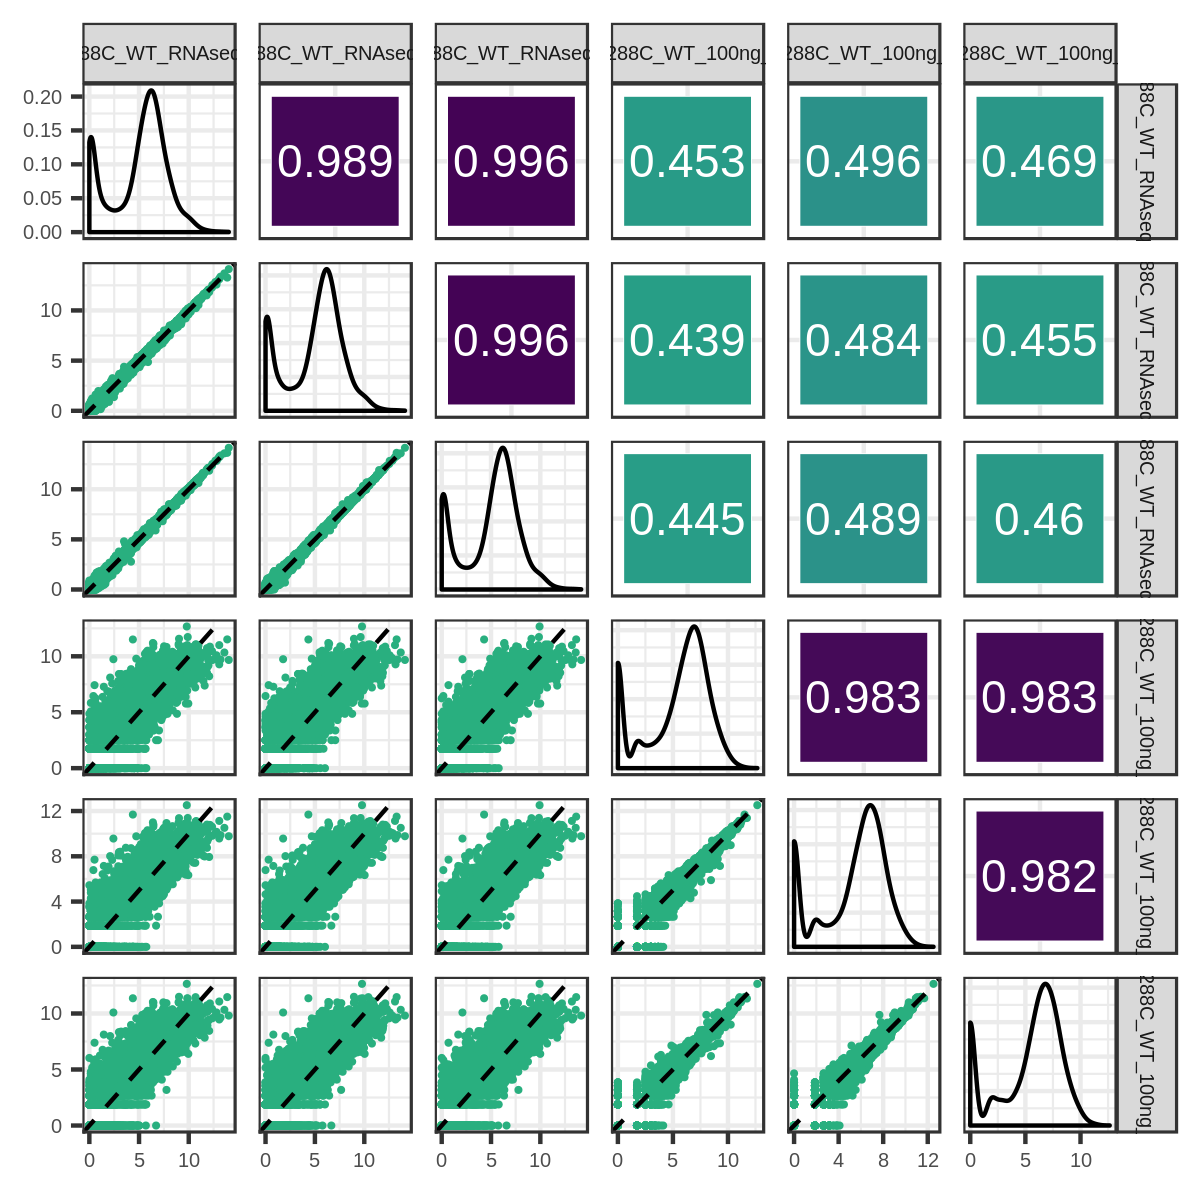
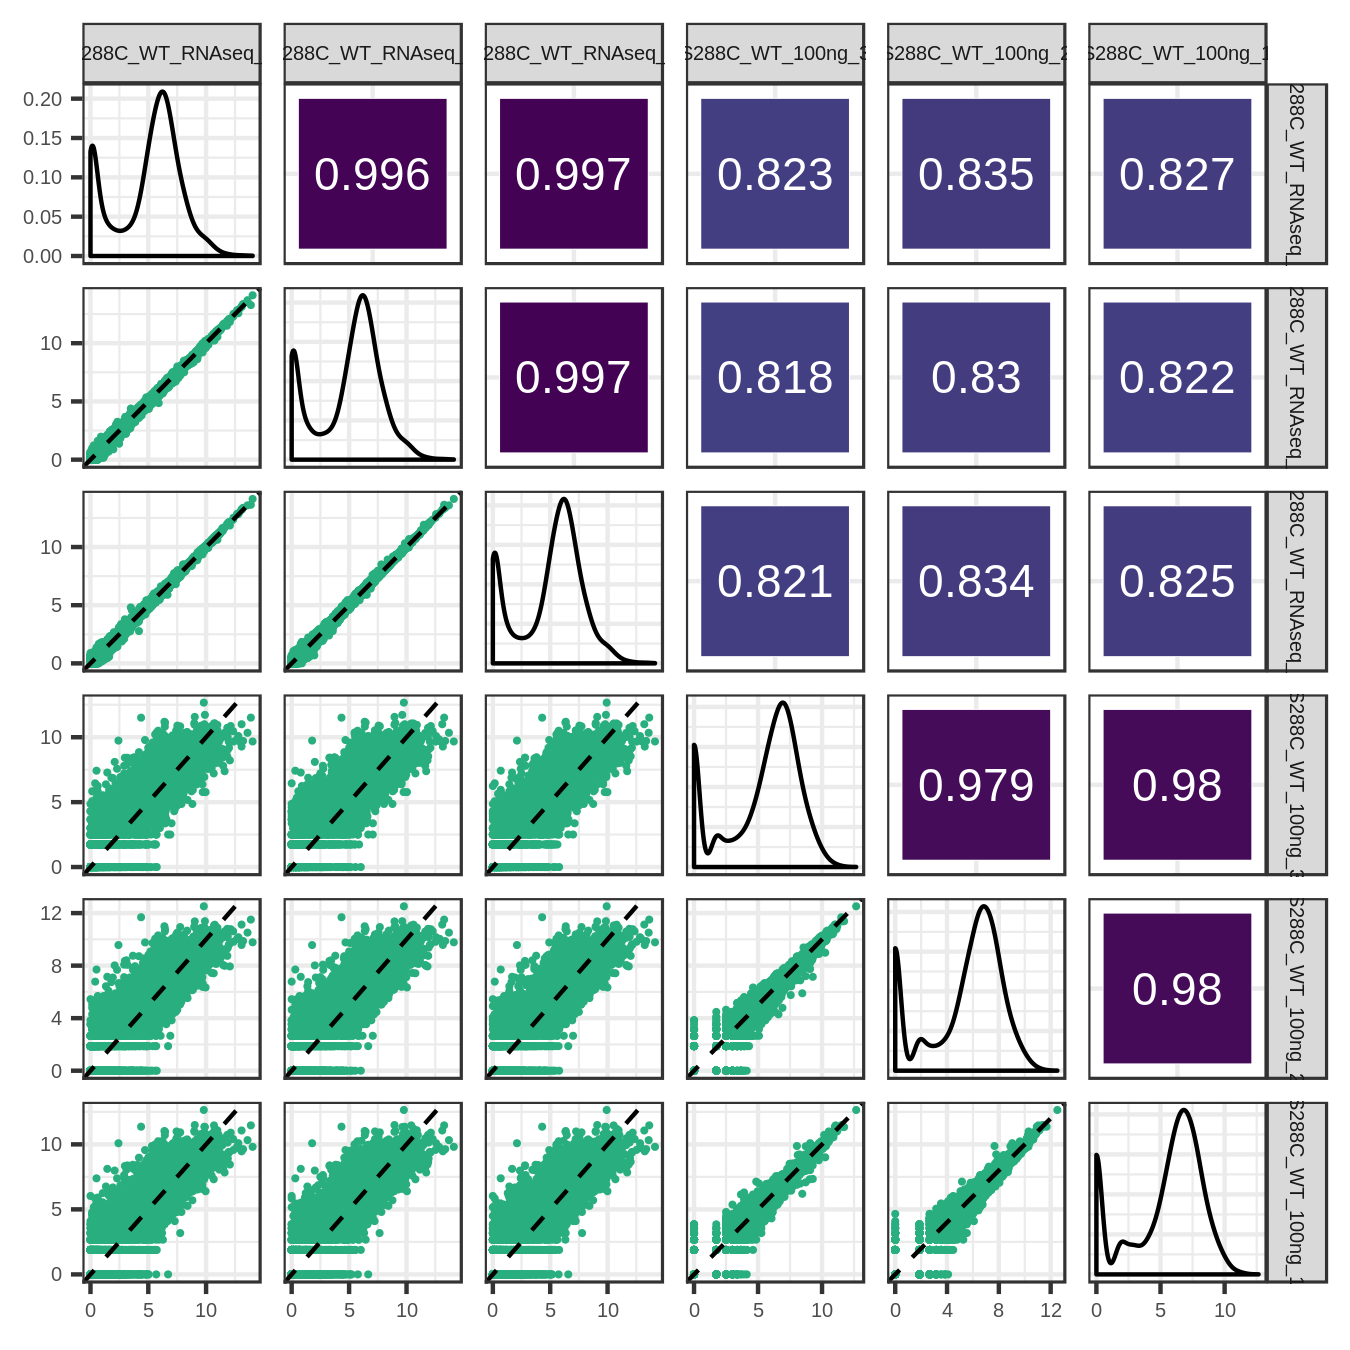
fixing up correlation plots

diff --git a/README.md b/README.md
@@ -64,9 +64,10 @@ exp <- count_normalization(exp, data_type = "tss")
 
 ```
 p <- plot_correlation(exp, data_type = "tss") +
+	theme_bw() +
 	theme(text = element_text(size = 6))
 
-ggsave("tss_correlation.png", plot = p, device = "png", type = "cairo", height = 3, width = 3)
+ggsave("tss_correlation.png", plot = p, device = "png", type = "cairo", height = 2, width = 2)
 ```
 ![tss_corr_plot](./inst/images/tss_correlation.png)
 
@@ -191,9 +192,10 @@ exp <- count_normalization(exp, data_type = "tsr")
 
 ```
 p <- plot_correlation(exp, data_type = "tsr") +
+	theme_bw() +
 	theme(text = element_text(size = 6))
 
-ggsave("tsr_correlation.png", plot = p, device = "png", type = "cairo", height = 3, width = 3)
+ggsave("tsr_correlation.png", plot = p, device = "png", type = "cairo", height = 2, width = 2)
 ```
 
 ![tsr_correlation](./inst/images/tsr_correlation.png)
@@ -324,7 +326,7 @@ p <- plot_correlation(exp, data_type = "rnaseq_v_tss", correlation_metric = "spe
 	theme_bw() +
 	theme(text = element_text(size = 6))
 
-ggsave("rnaseq_correlation.png", plot = p, device = "png", type = "cairo", height = 4, width = 4)
+ggsave("rnaseq_correlation.png", plot = p, device = "png", type = "cairo", height = 4.5, width = 4.5)
 ```
 
 ![rnaseq_tss_corr](./inst/images/rnaseq_correlation.png)
